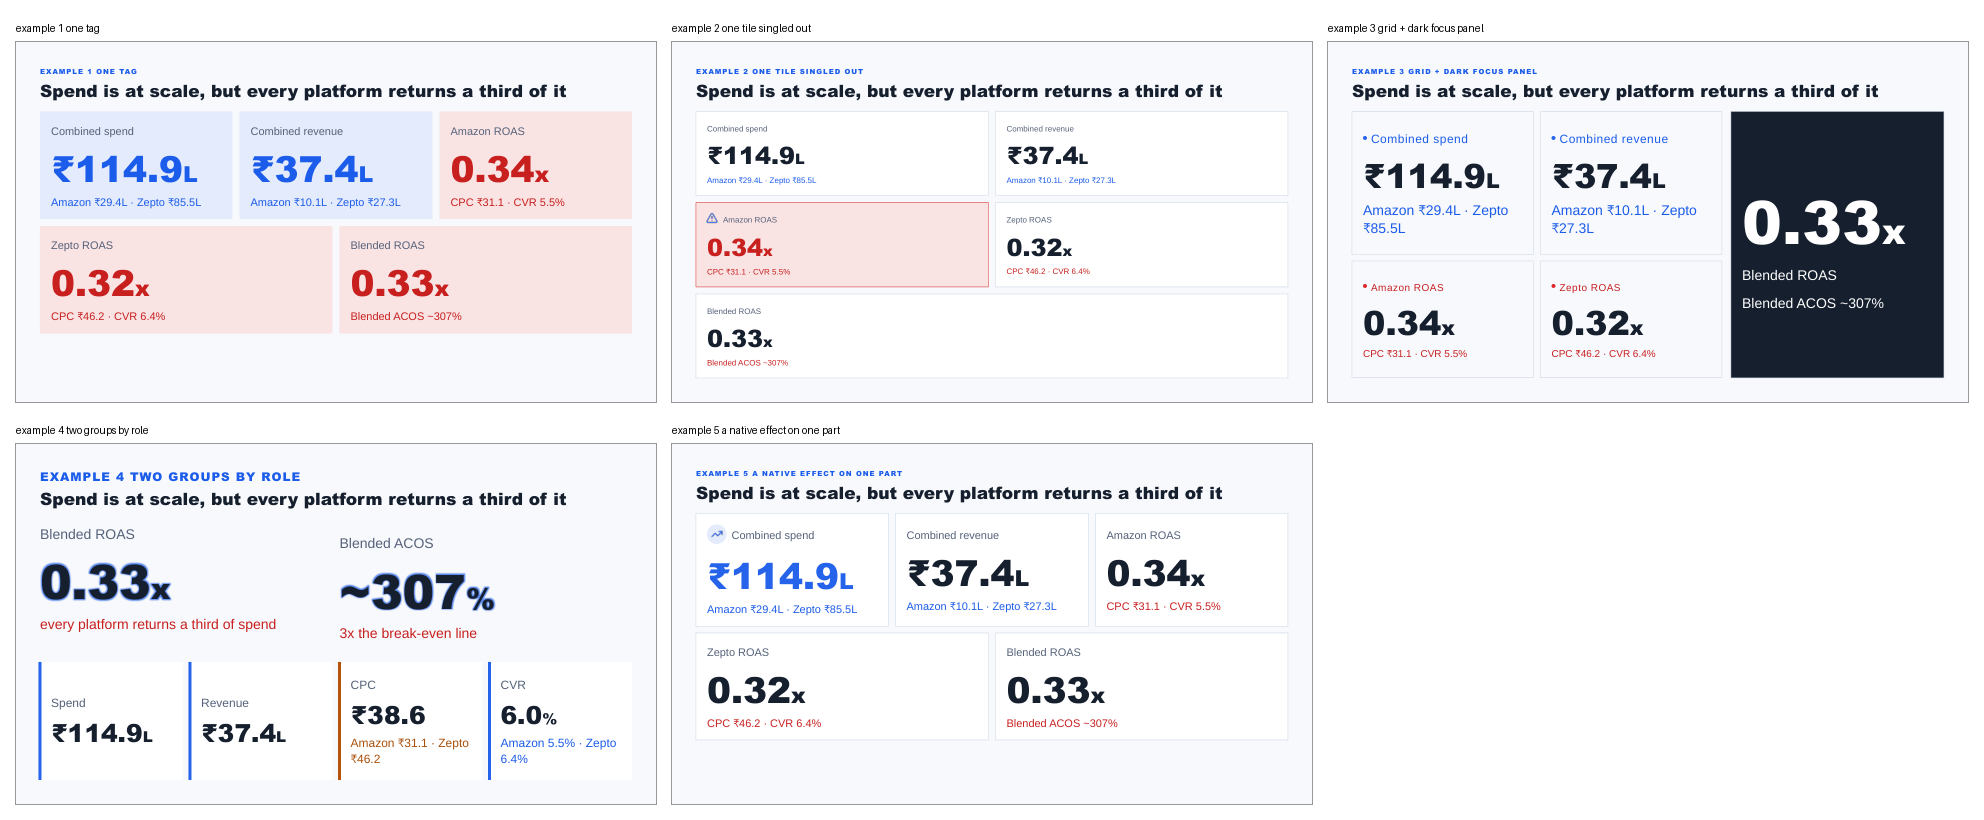
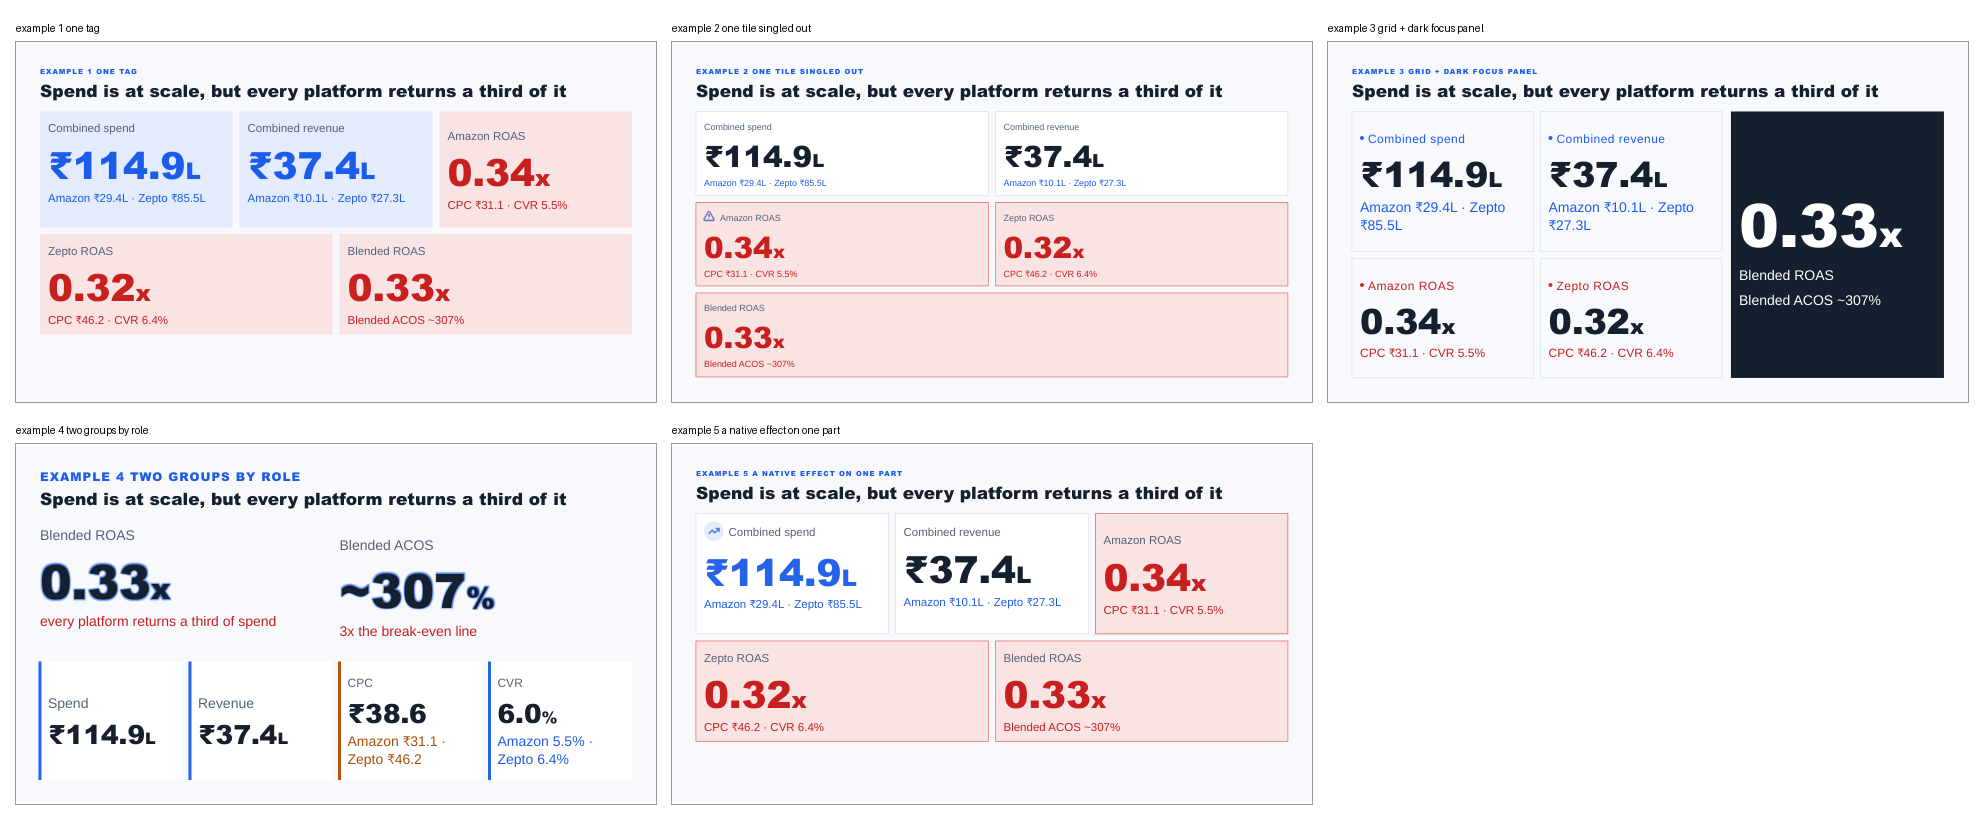
Tile nodes P1: house look padding 16 / gap 6 (the LLM's own median)
The wide replay (docs/eval/tile-nodes/wide/README.md) found tile numbers smaller than the
hand route on 29 of 68 saved slides and GEOM_CARD_EMPTY 59 -> 88, because the house look's
padding 22 / gap 10 is wider than the LLM's own tiles (median 16 / 6 over 206 tiles). With
16 / 6: 39 slides get larger numbers, none smaller; card empty 70. Two tile tests pin the
padding; gallery re-rendered.

diff --git a/presentation-pipeline/tests/unit/test_tiles.py b/presentation-pipeline/tests/unit/test_tiles.py
@@ -164,7 +164,7 @@ def test_resolution_order_house_group_variant_group_attrs_item_variant_item_attr
               '<Kpi ref="kpis.3" backgroundColor="$accentSoft"/></KpiGrid>')["xml"]
     # item 0: house padding, group variant (plain) fill, group attrs over the variant's colours
     t0, v0 = tile_of(xml, 0), value_of(xml, 0)
-    assert 'padding="22"' in t0 and 'backgroundColor="$surfaceAlt"' in t0 and 'color="$accentText"' in v0
+    assert 'padding="16"' in t0 and 'backgroundColor="$surfaceAlt"' in t0 and 'color="$accentText"' in v0
     assert '<Text color="$accentText" fontSize="16">Spend</Text>' in xml
     # item 1: its own variant (filled) wins over the group attrs; its own attribute wins over everything
     assert 'backgroundColor="$positiveSoft"' in tile_of(xml, 1) and 'color="$positiveText"' in value_of(xml, 1)
@@ -326,7 +326,7 @@ def test_icon_sits_in_the_label_row_so_fit_grow_can_stack_it():
     xml = run('<KpiGrid ref="kpis" icon="gauge"/>')["xml"]
     assert re.search(r'<HStack gap="10" alignItems="center"><Icon name="gauge"[^>]*/><Text[^>]*>Spend</Text></HStack>', xml)
     side = run('<KpiGrid ref="kpis" icon="gauge" arrange="side"/>')["xml"]
-    assert re.search(r'<HStack padding="22"[^>]*alignItems="center"[^>]*><Icon name="gauge"[^>]*/><VStack gap="6" grow="1">', side)
+    assert re.search(r'<HStack padding="16"[^>]*alignItems="center"[^>]*><Icon name="gauge"[^>]*/><VStack gap="6" grow="1">', side)
 
 
 # ── prompt, generator, validator ──────────────────────────────────────────────
